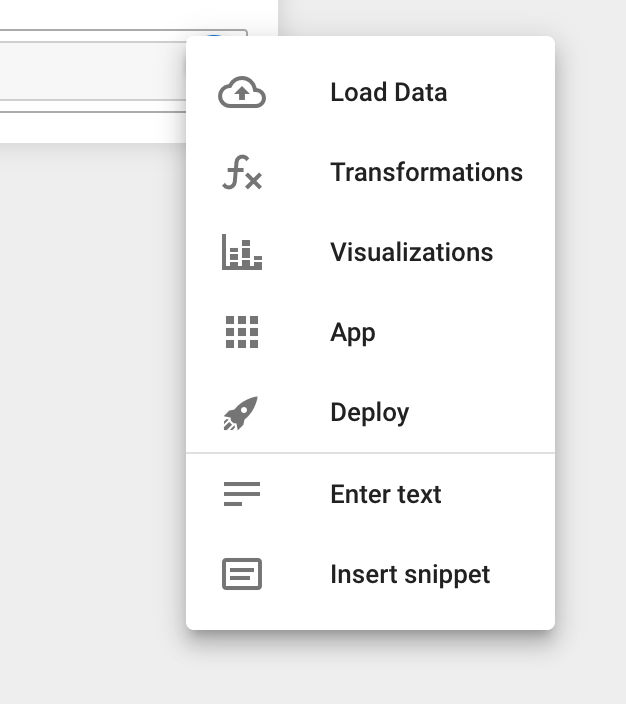
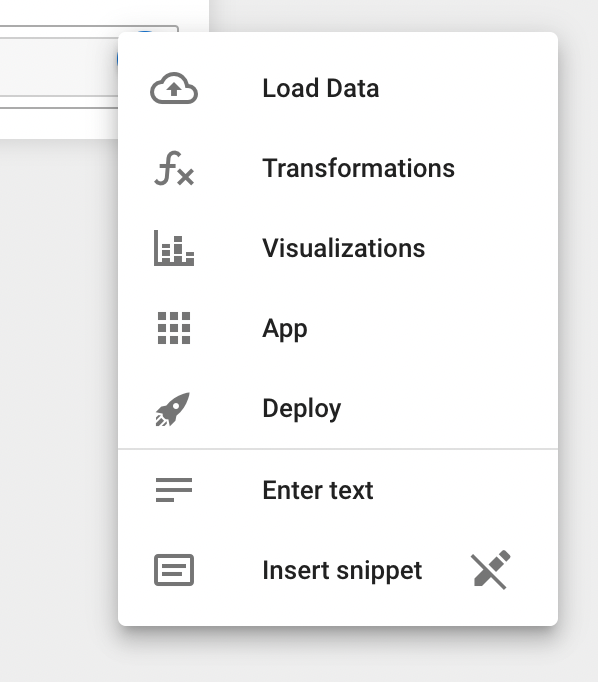
docs: add edit snippets documentation

diff --git a/docs/getting-started/code-snippets.md b/docs/getting-started/code-snippets.md
@@ -3,7 +3,7 @@
 ## Using snippets
 
 <div>Choose "Insert snippets" from the Low Code Assistant™ menu to insert code snippets into your notebook.</div>
-![Snippets Context Menu](../screenshots/snippets/lca_context_menu.png){: style="width: 313px"}
+![Snippets Context Menu](../screenshots/snippets/lca_context_menu.png){: style="width: 299px"}
 
 Browse the available snippets and select the one you want to insert.
 ![Snippets Main](../screenshots/snippets/snippets_main.png){: style="width: 1024px"}
@@ -41,9 +41,35 @@ MySnippets
 
 ## Editing snippets
 
-Snippets can be edited in the git repository with your regular git workflow for this repo or you can open a VSCode workspace
-for this project in Domino.
+Snippets can be edited:
 
+   - In the git repository with your regular git workflow for this repo.
+   - In the notebook using LCA.
+   - With VSCode by opening a workspace with VSCode for this project in Domino.
+
+### Editing with LCA
+
+<div>Enable snippet edit mode by clicking the pen icon in the context menu:</div>
+![Snippets Context Menu](../screenshots/snippets/lca_context_menu.png){: style="width: 299px"}
+![Snippets edit](../screenshots/snippets/lca_context_menu_edit.png){: style="width: 251px"}
+
+<div>Enter the snippet code and click on "SAVE AS SNIPPET"</div>
+![Snippets save as snippet](../screenshots/snippets/save_as_snippet.png){: style="width: 1024px"}
+
+<div>Enter the name of the snippet and select the repository to store the snippet</div>
+![Snippets save as snippet name and location](../screenshots/snippets/save_as_snippet_name_location.png){: style="width: 413px"}
+
+<div>After this you can keep editing the snippet if needed and save by clicking "SAVE"</div>
+![Snippets save as snippet name and location](../screenshots/snippets/edit.png){: style="width: 1024px"}
+
+<div>After the enabling the snippet edit mode, controls for editing snippets are also displayed in the snippets panel.</div>
+![Snippets controls](../screenshots/snippets/panel_edit_controls.png){: style="width: 413px"}
+
+<div>To sync the snippet back to git, open "File Changes" in the left-hand sidebar and click "Select and sync"
+on the "Imported Repositories" section</div>
+![Snippets sync git](../screenshots/snippets/LCA_edit_git.png){: style="width: 588px"}
+
+### Editing with a VSCode workspace
 <div>Click on  "Open Folder" in VSCode</div>
 ![Open Folder](../screenshots/snippets/repo_open.png){: style="width: 526px"}
 
@@ -58,10 +84,10 @@ for this project in Domino.
 
 ## Updating snippets in Notebook workspace
 
-When snippets are updated in the git repository, the change is only visible in the notebook workspace after pulling the changes and restarting the notebook.
+When snippets are updated in the git repository, the change is only visible in the notebook workspace after pulling the changes and reloading the snippets.
 
 <div>Click on "pull" in the "Imported Repositories" section</div>
 ![pull](../screenshots/snippets/pull.png){: style="width: 430px"}
 
-<div>Restart the notebook</div>
-![restart](../screenshots/snippets/restart_notebook.png){: style="width: 737px"}
+<div>Reload snippets</div>
+![restart](../screenshots/snippets/reload_snippets.png){: style="width: 325px"}
